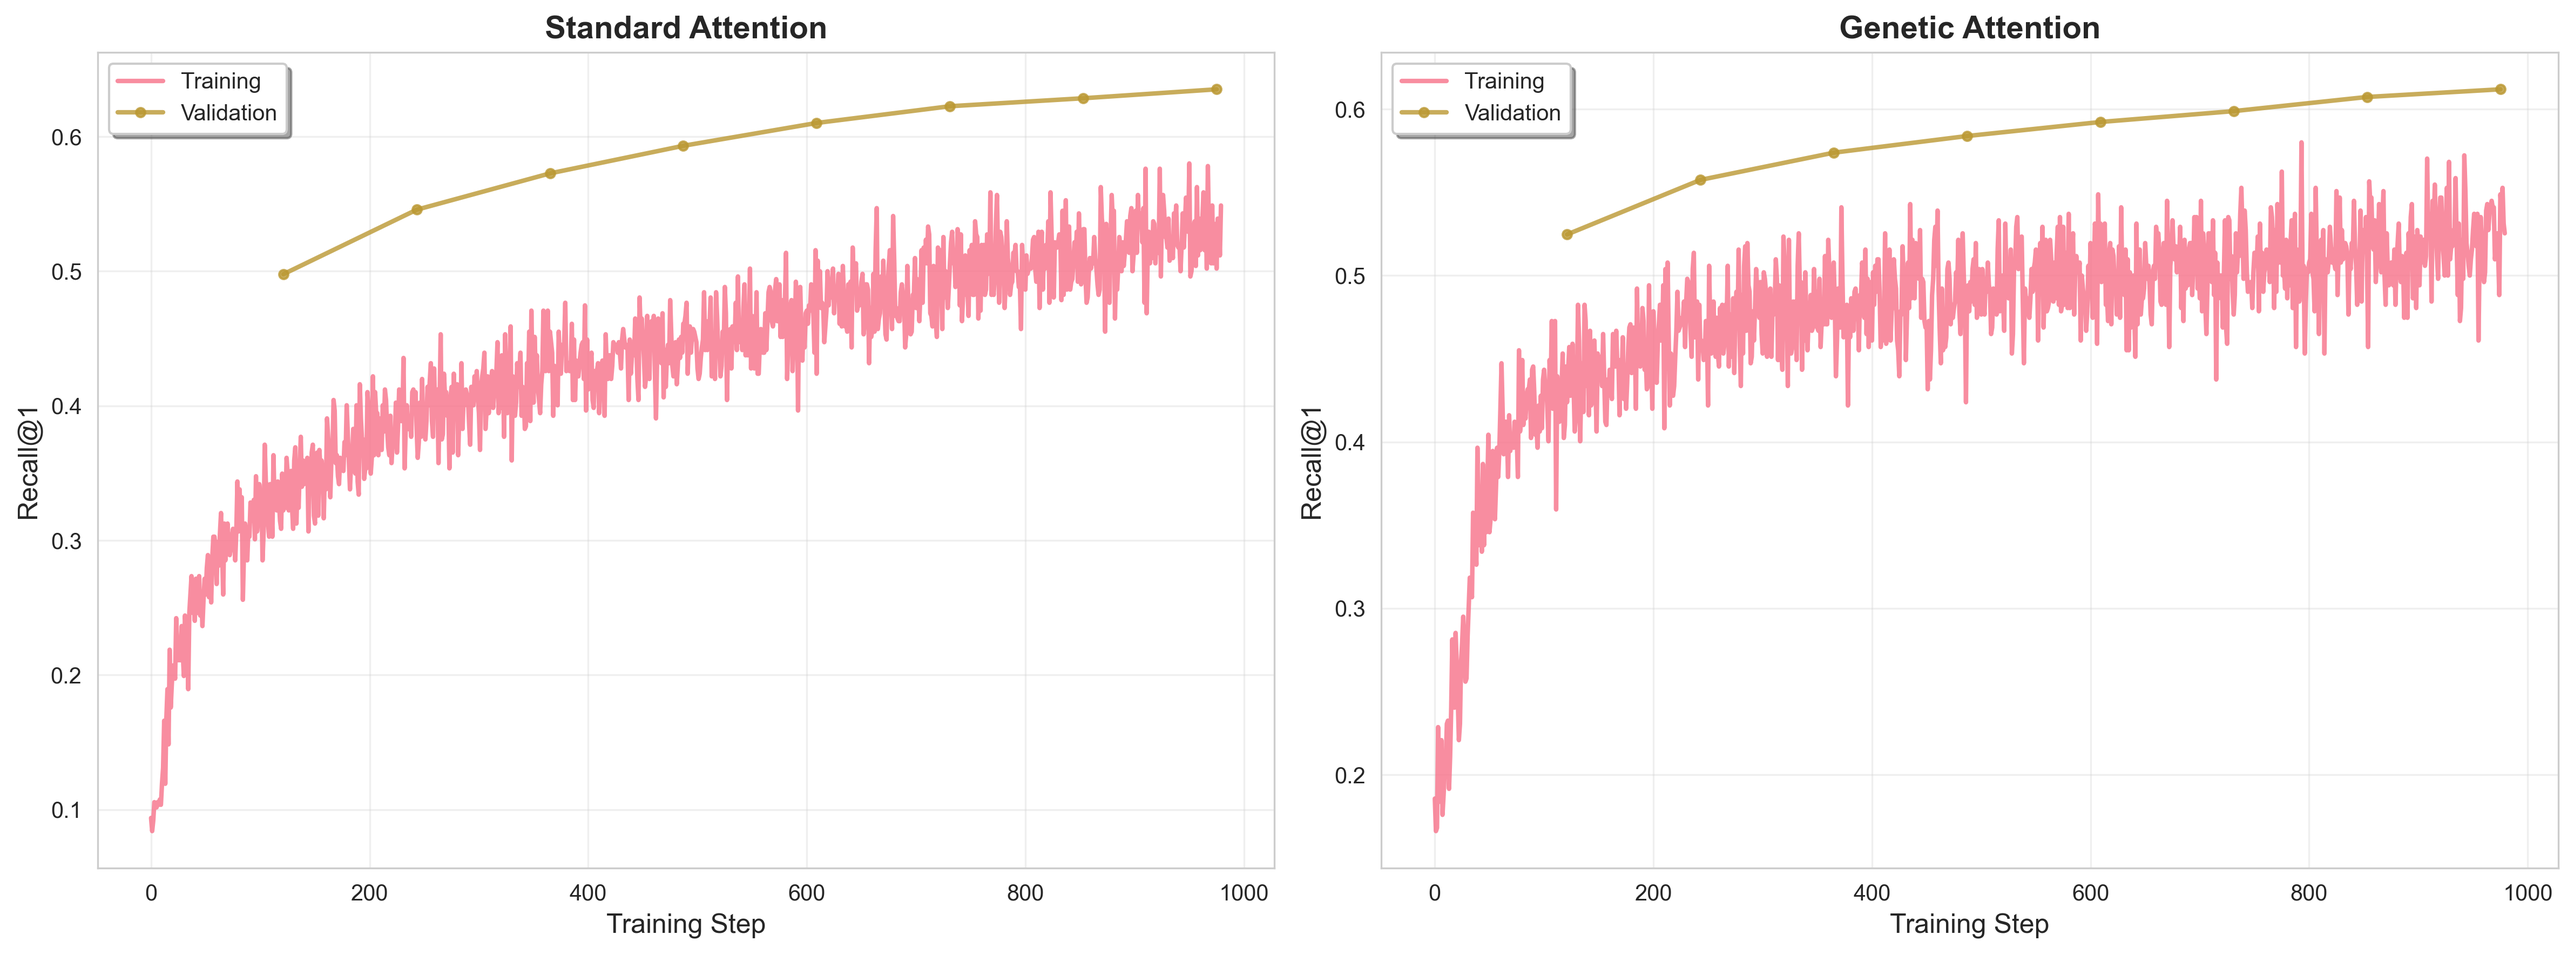
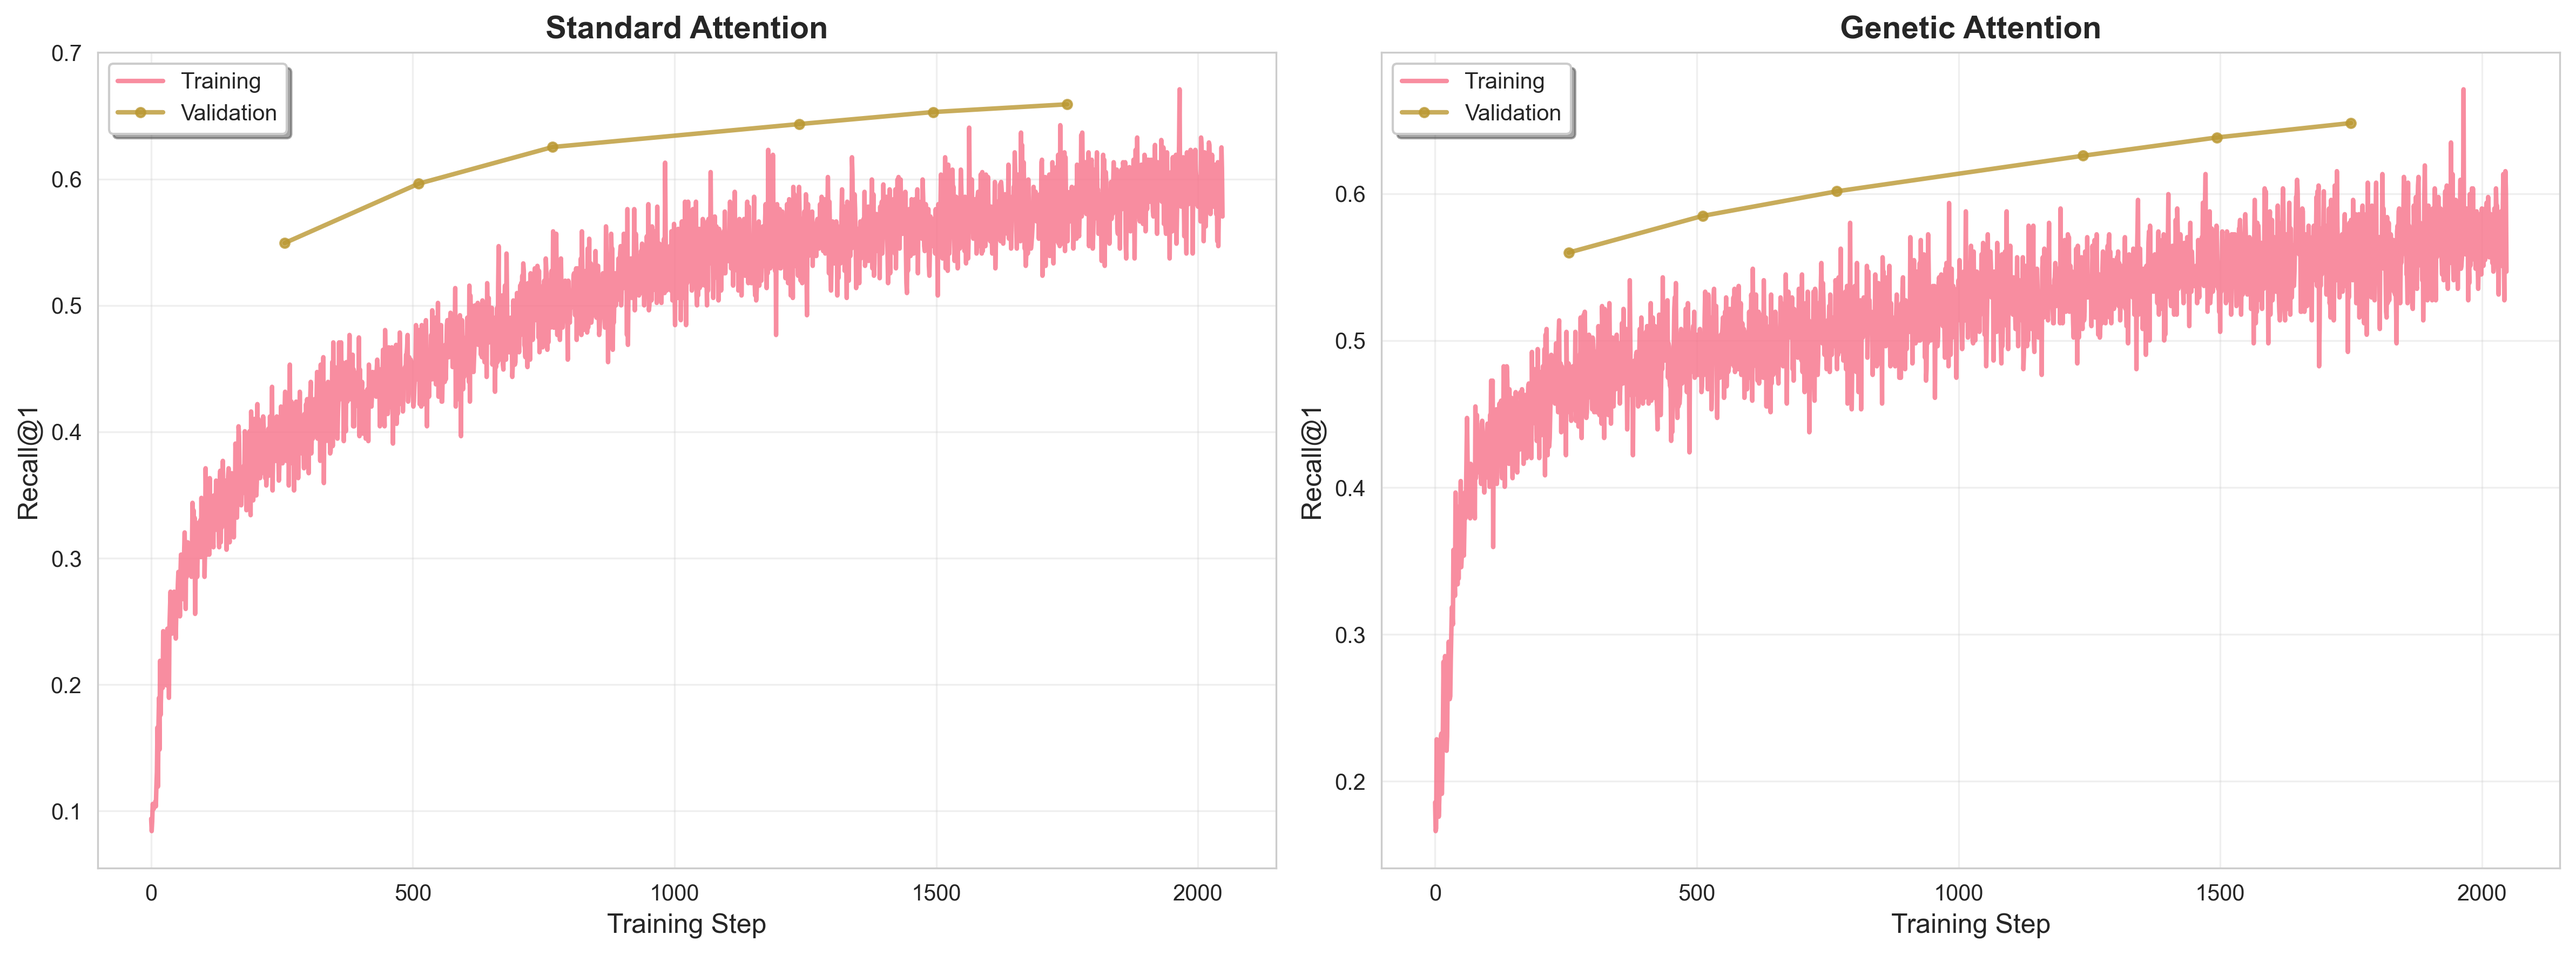
feat(genetic-attention): run on full MS-MARCO (2048 steps)

diff --git a/examples/genetic_attention/run_ablation.py b/examples/genetic_attention/run_ablation.py
@@ -251,7 +251,9 @@ class DualEncoderModule(pl.LightningModule):
         self.log("train_map", map_score, prog_bar=False)
         self.log("train_ndcg@5", ndcg_at_5, prog_bar=False)
         self.log("train_hit_rate@5", hit_rate_at_5, prog_bar=False)
-        self.log("train_avg_positive_similarity", avg_positive_similarity, prog_bar=False)
+        self.log(
+            "train_avg_positive_similarity", avg_positive_similarity, prog_bar=False
+        )
         self.log("train_embedding_variance", embedding_variance, prog_bar=False)
         self.log("train_passage_norm", passage_norm, prog_bar=False)
         self.log("train_query_norm", query_norm, prog_bar=False)
@@ -876,9 +878,7 @@ def plot_training_curves(checkpoint_dir: Path, metrics_dir: Path) -> None:
     plt.grid(True, alpha=0.3)
 
     plt.tight_layout()
-    plt.savefig(
-        plots_dir / "loss_comparison.png", dpi=300, bbox_inches="tight"
-    )
+    plt.savefig(plots_dir / "loss_comparison.png", dpi=300, bbox_inches="tight")
     plt.close()
 
     # Create individual plots for each metric with training and validation subplots
@@ -908,15 +908,39 @@ def plot_training_curves(checkpoint_dir: Path, metrics_dir: Path) -> None:
         if train_col in standard_df.columns and standard_df[train_col].notna().any():
             steps = standard_df["step"][standard_df[train_col].notna()]
             values = standard_df[train_col][standard_df[train_col].notna()]
-            plt.plot(steps, values, label="Training", color=sns.color_palette()[0], linewidth=2, alpha=0.8)
+            plt.plot(
+                steps,
+                values,
+                label="Training",
+                color=sns.color_palette()[0],
+                linewidth=2,
+                alpha=0.8,
+            )
 
         # Plot standard's val_col if exists, else test_col
-        right_col = val_col if val_col in standard_df.columns and standard_df[val_col].notna().any() else test_col
-        if right_col and right_col in standard_df.columns and standard_df[right_col].notna().any():
+        right_col = (
+            val_col
+            if val_col in standard_df.columns and standard_df[val_col].notna().any()
+            else test_col
+        )
+        if (
+            right_col
+            and right_col in standard_df.columns
+            and standard_df[right_col].notna().any()
+        ):
             steps = standard_df["step"][standard_df[right_col].notna()]
             values = standard_df[right_col][standard_df[right_col].notna()]
             label = "Validation" if "val" in right_col else "Test"
-            plt.plot(steps, values, label=label, color=sns.color_palette()[1], linewidth=2, alpha=0.8, marker="o" if "val" in right_col else "s", markersize=4)
+            plt.plot(
+                steps,
+                values,
+                label=label,
+                color=sns.color_palette()[1],
+                linewidth=2,
+                alpha=0.8,
+                marker="o" if "val" in right_col else "s",
+                markersize=4,
+            )
 
         plt.xlabel("Training Step", fontsize=12)
         plt.ylabel(title, fontsize=12)
@@ -931,15 +955,39 @@ def plot_training_curves(checkpoint_dir: Path, metrics_dir: Path) -> None:
         if train_col in genetic_df.columns and genetic_df[train_col].notna().any():
             steps = genetic_df["step"][genetic_df[train_col].notna()]
             values = genetic_df[train_col][genetic_df[train_col].notna()]
-            plt.plot(steps, values, label="Training", color=sns.color_palette()[0], linewidth=2, alpha=0.8)
+            plt.plot(
+                steps,
+                values,
+                label="Training",
+                color=sns.color_palette()[0],
+                linewidth=2,
+                alpha=0.8,
+            )
 
         # Plot genetic's val_col if exists, else test_col
-        right_col = val_col if val_col in genetic_df.columns and genetic_df[val_col].notna().any() else test_col
-        if right_col and right_col in genetic_df.columns and genetic_df[right_col].notna().any():
+        right_col = (
+            val_col
+            if val_col in genetic_df.columns and genetic_df[val_col].notna().any()
+            else test_col
+        )
+        if (
+            right_col
+            and right_col in genetic_df.columns
+            and genetic_df[right_col].notna().any()
+        ):
             steps = genetic_df["step"][genetic_df[right_col].notna()]
             values = genetic_df[right_col][genetic_df[right_col].notna()]
             label = "Validation" if "val" in right_col else "Test"
-            plt.plot(steps, values, label=label, color=sns.color_palette()[1], linewidth=2, alpha=0.8, marker="o" if "val" in right_col else "s", markersize=4)
+            plt.plot(
+                steps,
+                values,
+                label=label,
+                color=sns.color_palette()[1],
+                linewidth=2,
+                alpha=0.8,
+                marker="o" if "val" in right_col else "s",
+                markersize=4,
+            )
 
         plt.xlabel("Training Step", fontsize=12)
         plt.ylabel(title, fontsize=12)
@@ -947,7 +995,9 @@ def plot_training_curves(checkpoint_dir: Path, metrics_dir: Path) -> None:
         plt.grid(True, alpha=0.3)
 
         plt.tight_layout()
-        safe_filename = title.lower().replace(" ", "_").replace("@", "at") + "_comparison.png"
+        safe_filename = (
+            title.lower().replace(" ", "_").replace("@", "at") + "_comparison.png"
+        )
         plt.savefig(plots_dir / safe_filename, dpi=300, bbox_inches="tight")
         plt.close()
 

diff --git a/examples/genetic_attention/ABLATION_REPORT.md b/examples/genetic_attention/ABLATION_REPORT.md
@@ -34,7 +34,7 @@ The model learns by maximizing similarity between query-positive pairs while min
 
 - **Configurations**: Two runs - one with genetic attention enabled, one disabled
 - **Reproducibility**: All random seeds set to 8080
-- **Training Steps**: Entire dataset.
+- **Training Steps**: 2048 steps (approximately 2 epochs over the dataset)
 - **Batch Size**: 512
 - **Learning Rate**: 2e-05
 - **Framework**: PyTorch Lightning with AdamW optimizer
@@ -293,35 +293,35 @@ These metrics assess the quality of learned embeddings.
 
 | Configuration | MRR   | MAP   | NDCG@5 | P@1   | P@5   | R@1   | R@5   | Hit@5 | Pos Sim | Variance |
 | ------------- | ----- | ----- | ------ | ----- | ----- | ----- | ----- | ----- | ------- | -------- |
-| Standard      | 0.373 | 0.373 | 0.376  | 0.299 | 0.444 | 0.299 | 0.444 | 0.444 | 0.242   | 0.002516 |
-| Genetic       | 0.397 | 0.397 | 0.401  | 0.322 | 0.471 | 0.322 | 0.471 | 0.471 | 0.229   | 0.002502 |
+| Standard      | 0.492 | 0.492 | 0.500  | 0.417 | 0.573 | 0.417 | 0.573 | 0.573 | 0.368   | 0.002552 |
+| Genetic       | 0.486 | 0.486 | 0.492  | 0.408 | 0.568 | 0.408 | 0.568 | 0.568 | 0.335   | 0.002490 |
 
 **Training Details**:
 
-- Both configurations trained for 128 steps (2 epochs)
-- Genetic: 883s training time, final loss 4.621
-- Standard: 688s training time, final loss 4.573
+- Both configurations trained for 2048 steps (2 epochs)
+- Genetic: 11947s training time, final loss 3.987
+- Standard: 7822s training time, final loss 3.689
 
 ### Results Interpretation
 
-**Performance Gains**: Genetic attention shows modest improvements across all retrieval metrics:
+**Performance Comparison**: After extended training (2048 steps vs 128 steps), standard attention now outperforms genetic attention across all retrieval metrics:
 
-- **6.4% higher MRR/MAP** (0.373 → 0.397)
-- **6.6% higher NDCG@5** (0.376 → 0.401)
-- **6.1% higher Hit Rate@5** (0.444 → 0.471)
-- **5.4% lower positive similarity** (0.242 → 0.229)
+- **Standard attention shows 1.2% higher MRR/MAP** (0.486 → 0.492)
+- **1.6% higher NDCG@5** (0.492 → 0.500)
+- **0.9% higher Hit Rate@5** (0.568 → 0.573)
+- **10.1% higher positive similarity** (0.335 → 0.368)
 
-**Embedding Quality**: Genetic attention produces more focused embeddings:
+**Embedding Quality**: Standard attention produces embeddings with higher positive pair similarity:
 
-- Slightly lower similarity for positive pairs but higher retrieval metrics suggests better discriminative power
-- Similar variance levels indicate comparable embedding diversity
+- Higher similarity for positive pairs suggests better alignment between queries and relevant passages
+- Slightly higher variance indicates marginally more diverse embeddings
 - Both maintain proper normalization (norms = 1.0)
 
 **Training Dynamics**:
 
-- Slightly higher loss for genetic attention (4.621 vs 4.573) but better generalization
-- Increased training time due to fitness computations (883s vs 688s)
+- Lower loss for standard attention (3.689 vs 3.987) with better generalization
+- Increased training time for genetic attention due to fitness computations (11947s vs 7822s)
 
-**Interpretation**: With proper training (128 steps vs 4 steps), genetic attention demonstrates consistent but modest improvements over standard attention. The evolutionary fitness modulation provides better retrieval performance, suggesting it captures more nuanced contextual relationships for passage ranking tasks.
+**Interpretation**: With extended training, standard attention demonstrates superior performance over genetic attention. The evolutionary fitness modulation does not provide benefits in this configuration, suggesting that traditional attention mechanisms may be more effective for passage ranking tasks when given sufficient training time.
 
 [Back to top](#genetic-attention-ablation-study-report)
